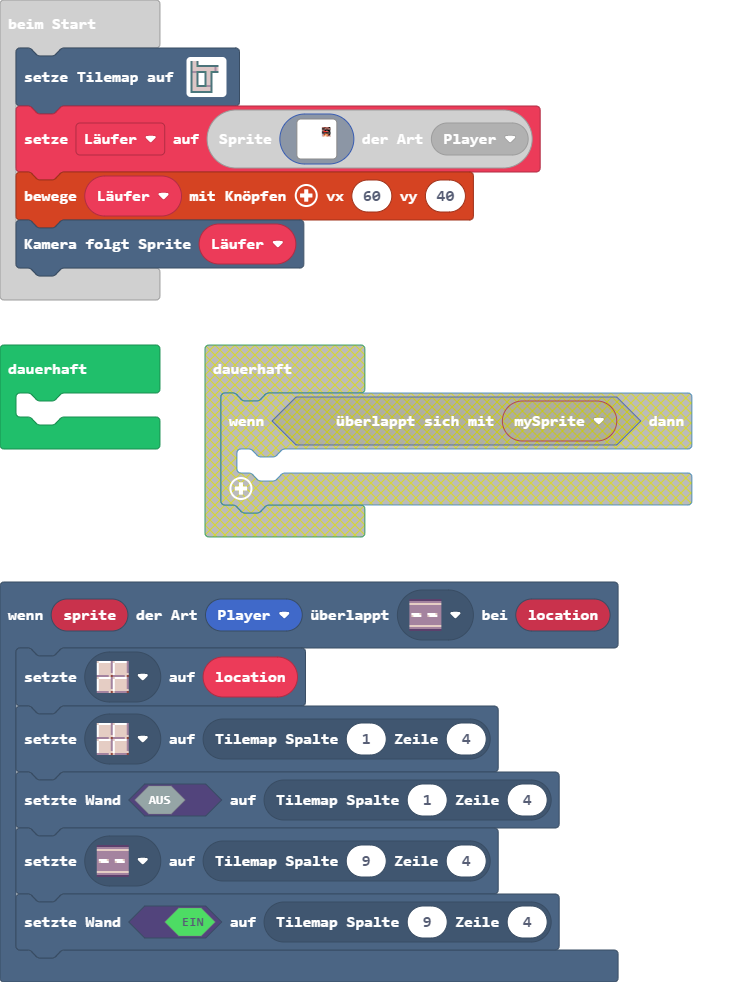
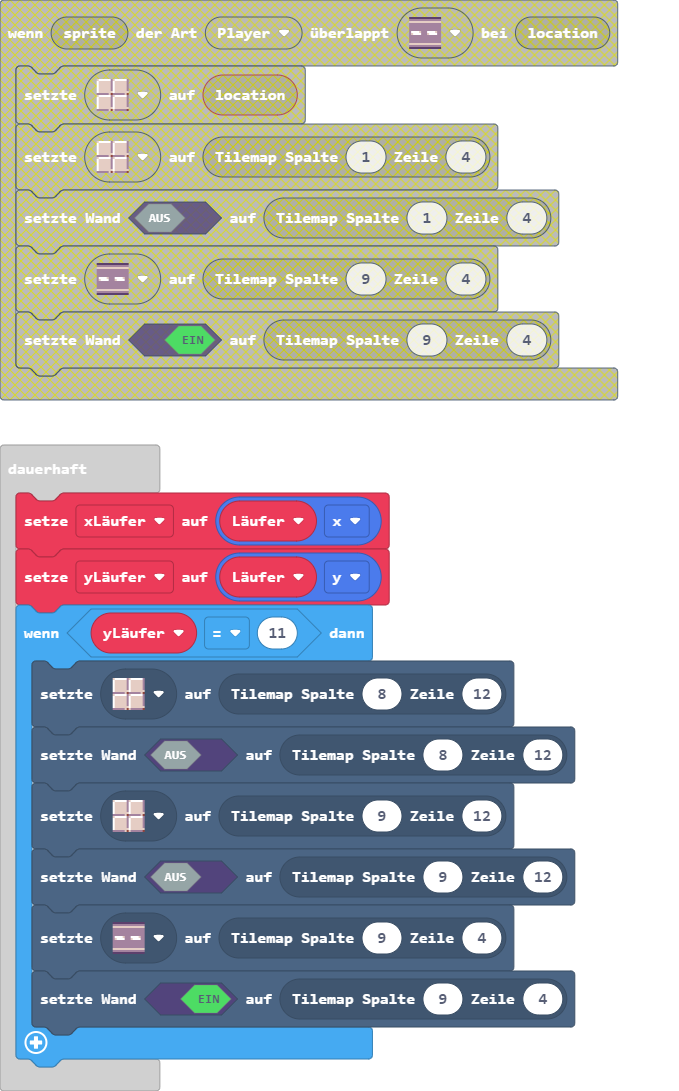
Aktualisiere main.blocks, main.ts

diff --git a/main.ts b/main.ts
@@ -1,10 +1,5 @@
-scene.onOverlapTile(SpriteKind.Player, sprites.vehicle.roadHorizontal, function (sprite, location) {
-    tiles.setTileAt(location, sprites.dungeon.floorLight0)
-    tiles.setTileAt(tiles.getTileLocation(1, 4), sprites.dungeon.floorLight0)
-    tiles.setWallAt(tiles.getTileLocation(1, 4), false)
-    tiles.setTileAt(tiles.getTileLocation(9, 4), sprites.vehicle.roadHorizontal)
-    tiles.setWallAt(tiles.getTileLocation(9, 4), true)
-})
+let yLäufer = 0
+let xLäufer = 0
[1 lines of base64/hex data omitted]
     2 . . 2 . . . . . . . . . . . . 
     2 . . 2 . . . . . . . . . . . . 
@@ -52,5 +47,14 @@ let Läufer = sprites.create(img`
 controller.moveSprite(Läufer, 60, 40)
 scene.cameraFollowSprite(Läufer)
 forever(function () {
-	
+    xLäufer = Läufer.x
+    yLäufer = Läufer.y
+    if (yLäufer == 11) {
+        tiles.setTileAt(tiles.getTileLocation(8, 12), sprites.dungeon.floorLight0)
+        tiles.setWallAt(tiles.getTileLocation(8, 12), false)
+        tiles.setTileAt(tiles.getTileLocation(9, 12), sprites.dungeon.floorLight0)
+        tiles.setWallAt(tiles.getTileLocation(9, 12), false)
+        tiles.setTileAt(tiles.getTileLocation(9, 4), sprites.vehicle.roadHorizontal)
+        tiles.setWallAt(tiles.getTileLocation(9, 4), true)
+    }
 })
